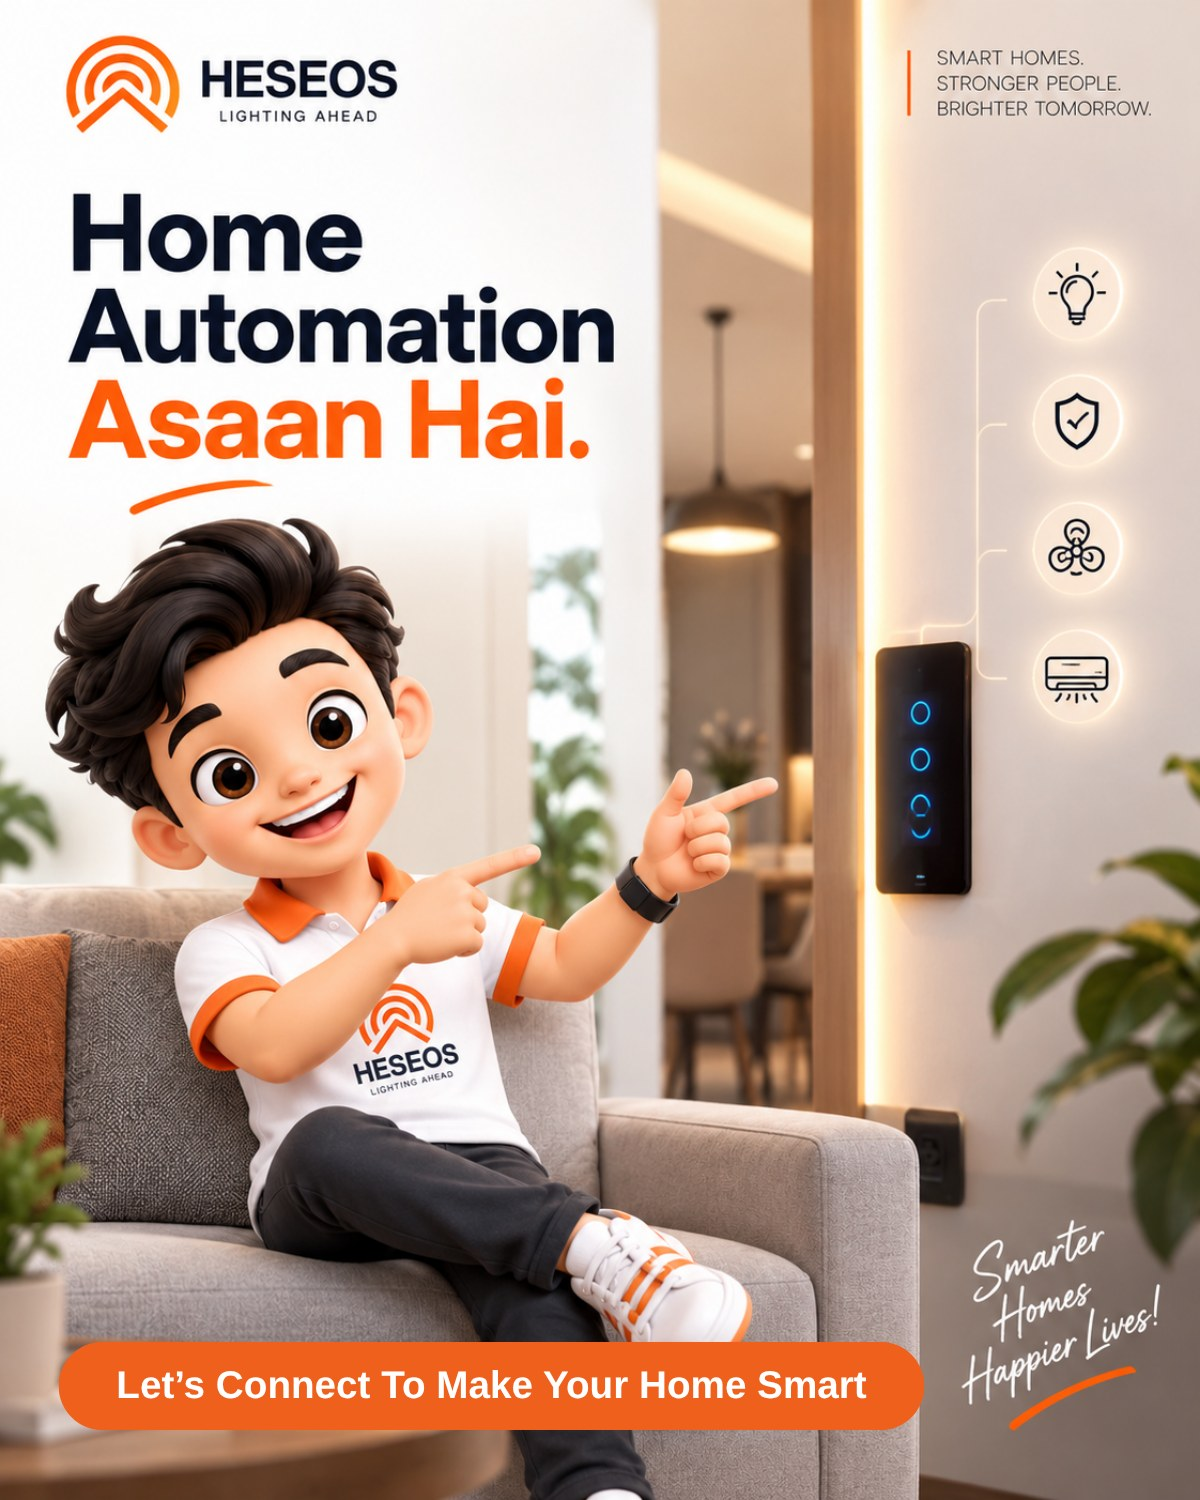
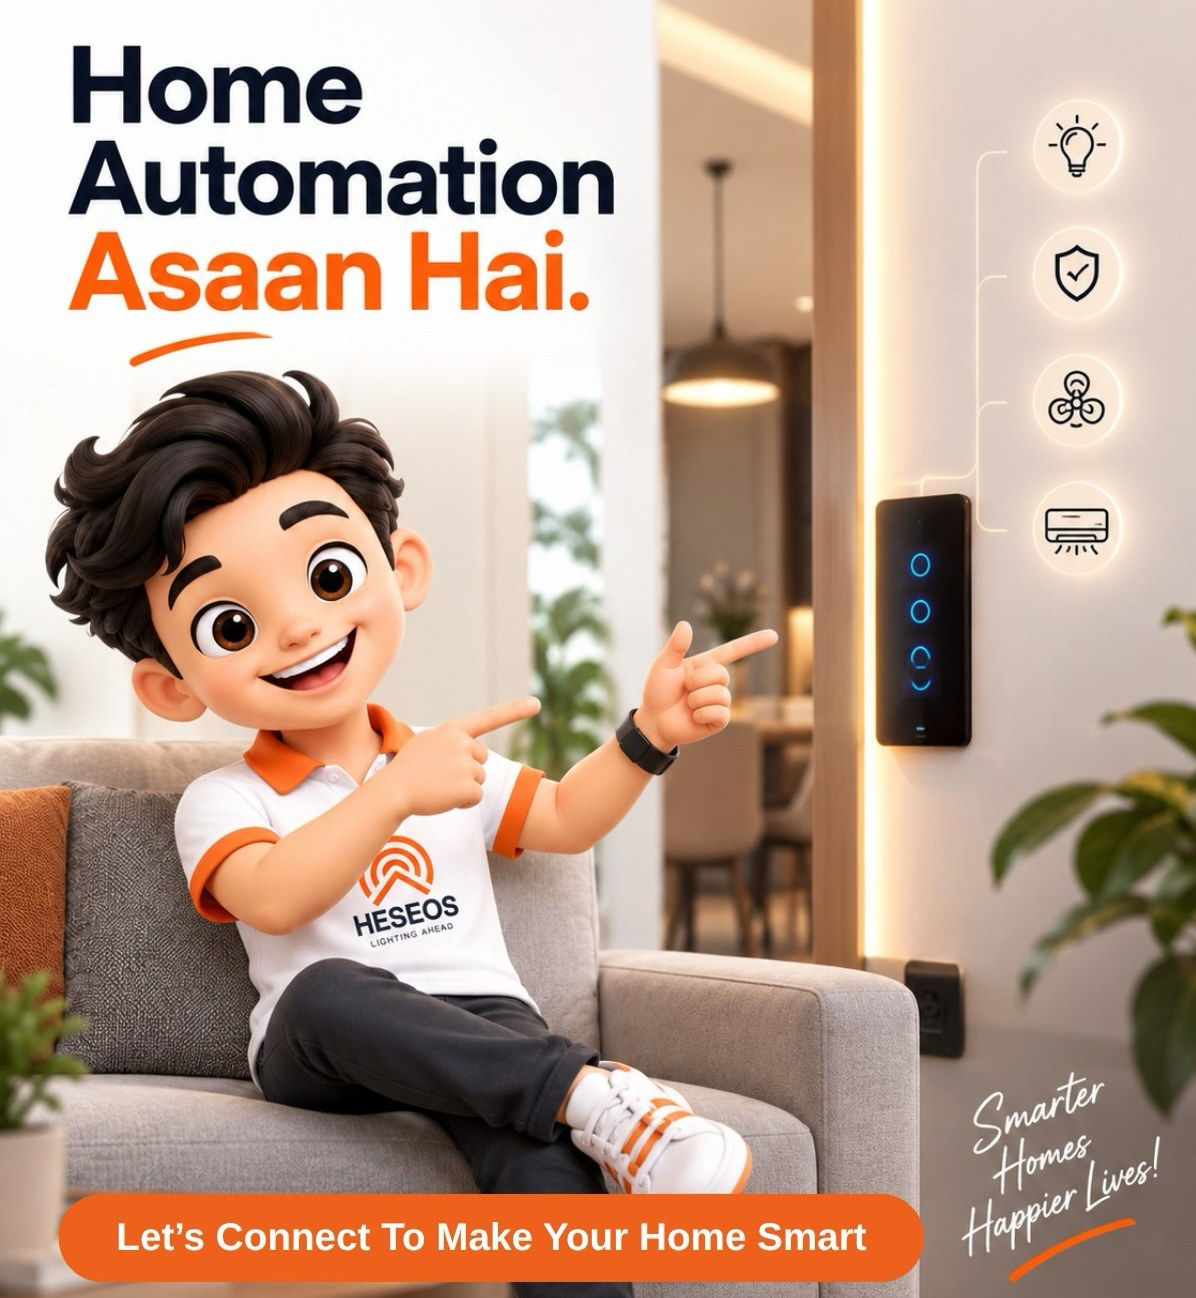
Remove welcome-image delay and swap in the updated poster
delayMs is now 0 — the poster image sends immediately after the
greeting text, with no artificial pause, then the next flow
message (the "would you like to explore..." menu) follows right
after as before. Still positioned between the first and second
messages, just without the wait.

Also swapped public/whatsapp/heseos-welcome.jpg for the updated
poster (compressed to a 228KB JPEG).

Refactored HESEOS_GREET_IMAGE into a single shared constant in
each flow file, used by both the seed function and
withHeseosGreetImage's in-place migration — so any future tweak
to the image path or delay automatically reaches the already-
seeded live flow the next time the webhook runs, without needing
another manual migration tweak like this one.

Claude-Session: https://claude.ai/code/session_01KuwwtRFPNSVzGY9YiKz9mE

diff --git a/lib/heseosDefaultFlow.js b/lib/heseosDefaultFlow.js
@@ -32,6 +32,13 @@
 import { dbInsert, dbPatch } from '@/lib/db';
 
 export const HESEOS_DEFAULT_FLOW_ID = 'heseos_default_lead_capture';
+// HESEOS's own brand poster, sent after n_greet's text (see lib/botFlowEngine.js's play() for
+// what data.imageAfter does) — the single source of truth for both the seed function below AND
+// withHeseosGreetImage's in-place migration, so a future tweak here (a new image, a different
+// delay) automatically reaches an already-seeded tenant's row the next time ensureHeseos*Flow
+// runs, without ever needing a manual DB fix again. delayMs: 0 — no pause; the image follows
+// the greeting immediately, same as any other two consecutive flow nodes.
+const HESEOS_GREET_IMAGE = { path: '/whatsapp/heseos-welcome.jpg', delayMs: 0 };
 
 const Y = { greet: 20, propertyRow: [20, 220, 420, 620] };
 
@@ -83,12 +90,12 @@ function buildHeseosDefaultFlow(tenantId) {
       id: 'n_greet', type: 'message', x: 340, y: 320,
       data: {
         text: "{{referrerNote}}\n\nNamaste 🙏 I'm *{{botName}}* — your smart home guide at HESEOS.\n\nWe help design and set up smart switches, lighting, security cameras and voice control for homes and offices — from your very first idea to the final installation. 🏠✨",
-        // HESEOS brand poster — sent as its own image message 4s after this greeting, then the
-        // very next node (n_ask_smart, below) follows immediately with no further delay. See
-        // lib/botFlowEngine.js's play() for what data.imageAfter does; this is the ONLY place
-        // (along with lib/heseosOrganicFlow.js's matching n_greet) that sets it — not a Flow
-        // Builder field, just this flow's own seeded data.
-        imageAfter: { path: '/whatsapp/heseos-welcome.jpg', delayMs: 4000 },
+        // HESEOS brand poster — sent as its own image message right after this greeting, no
+        // delay (see HESEOS_GREET_IMAGE above), then the very next node (n_ask_smart, below)
+        // follows immediately too. See lib/botFlowEngine.js's play() for what data.imageAfter
+        // does; this is the ONLY place (along with lib/heseosOrganicFlow.js's matching
+        // n_greet) that sets it — not a Flow Builder field, just this flow's own seeded data.
+        imageAfter: HESEOS_GREET_IMAGE,
       },
     },
     {
@@ -218,18 +225,19 @@ function buildHeseosDefaultFlow(tenantId) {
 // never overwrites an existing row, only fills the gap when it's missing entirely. Returns the
 // (possibly updated) flows array so the caller's already-in-hand list stays correct without a
 // second DB round trip.
-// One-off migration, applied in place: n_greet's data.imageAfter (the HESEOS brand poster —
-// see lib/botFlowEngine.js's play()) was added after this flow first shipped, so an already-
-// seeded tenant's row wouldn't otherwise ever pick it up. Patches ONLY that one field onto that
-// one node, leaving everything else — including any text/node/edge changes an admin has since
-// made in Flow Builder — completely untouched. Safely a no-op once applied once, and a no-op
-// (never throws) if n_greet was itself since deleted or renamed.
+// Keeps an already-seeded tenant's n_greet node in sync with HESEOS_GREET_IMAGE above, applied
+// in place — necessary because this flow is seeded once into Postgres and never overwritten, so
+// a code change to HESEOS_GREET_IMAGE alone wouldn't otherwise ever reach a tenant whose flow
+// already exists (ours). Patches ONLY that one field onto that one node, leaving everything
+// else — including any text/node/edge changes an admin has since made in Flow Builder —
+// completely untouched. A no-op once it matches, and a no-op (never throws) if n_greet was
+// itself since deleted or renamed.
 function withHeseosGreetImage(nodes) {
   const greet = (nodes || []).find((n) => n.id === 'n_greet');
-  if (!greet || greet.data?.imageAfter) return null;
-  return (nodes || []).map((n) => (n.id === 'n_greet'
-    ? { ...n, data: { ...n.data, imageAfter: { path: '/whatsapp/heseos-welcome.jpg', delayMs: 4000 } } }
-    : n));
+  if (!greet) return null;
+  const current = greet.data?.imageAfter;
+  if (current && current.path === HESEOS_GREET_IMAGE.path && current.delayMs === HESEOS_GREET_IMAGE.delayMs) return null;
+  return (nodes || []).map((n) => (n.id === 'n_greet' ? { ...n, data: { ...n.data, imageAfter: HESEOS_GREET_IMAGE } } : n));
 }
 
 export async function ensureHeseosDefaultFlow(tenant, existingFlows) {

diff --git a/lib/heseosOrganicFlow.js b/lib/heseosOrganicFlow.js
@@ -30,6 +30,13 @@
 import { dbInsert, dbPatch } from '@/lib/db';
 
 export const HESEOS_ORGANIC_FLOW_ID = 'heseos_organic_enquiry_v1';
+// HESEOS's own brand poster, sent after n_greet's text (see lib/botFlowEngine.js's play() for
+// what data.imageAfter does) — the single source of truth for both the seed function below AND
+// withHeseosGreetImage's in-place migration, so a future tweak here (a new image, a different
+// delay) automatically reaches an already-seeded tenant's row the next time ensureHeseos*Flow
+// runs, without ever needing a manual DB fix again. delayMs: 0 — no pause; the image follows
+// the greeting immediately, same as any other two consecutive flow nodes.
+const HESEOS_GREET_IMAGE = { path: '/whatsapp/heseos-welcome.jpg', delayMs: 0 };
 
 function buildHeseosOrganicFlow(tenantId) {
   const now = new Date().toISOString();
@@ -40,10 +47,10 @@ function buildHeseosOrganicFlow(tenantId) {
       id: 'n_greet', type: 'message', x: 340, y: 220,
       data: {
         text: "Namaste 🙏 I'm *{{botName}}* — your smart home guide at HESEOS.\n\nWhat can I help you with today? 👇",
-        // HESEOS brand poster — see lib/heseosDefaultFlow.js's matching n_greet node and
-        // lib/botFlowEngine.js's play() for what data.imageAfter does. Sent 4s after this
-        // greeting, then n_menu (below) follows immediately with no further delay.
-        imageAfter: { path: '/whatsapp/heseos-welcome.jpg', delayMs: 4000 },
+        // HESEOS brand poster — see HESEOS_GREET_IMAGE above and lib/botFlowEngine.js's
+        // play() for what data.imageAfter does. Sent right after this greeting, no delay
+        // (see HESEOS_GREET_IMAGE); n_menu (below) then follows immediately too.
+        imageAfter: HESEOS_GREET_IMAGE,
       },
     },
     {
@@ -94,17 +101,16 @@ function buildHeseosOrganicFlow(tenantId) {
 
 // Same self-healing seed pattern as lib/heseosDefaultFlow.js/lib/heseosReturningFlow.js — only
 // ever inserts when a flow with this exact id is missing, never overwrites a tenant's own edits.
-// One-off migration, applied in place — same mechanic and reasoning as
-// lib/heseosDefaultFlow.js's withHeseosGreetImage (not shared code since these are two
-// independent flows with their own node ids/shape, but the exact same idea): n_greet's
-// data.imageAfter (the HESEOS brand poster) was added after this flow first shipped, so an
-// already-seeded tenant's row needs a targeted, in-place patch rather than a full reseed.
+// Keeps an already-seeded tenant's n_greet node in sync with HESEOS_GREET_IMAGE above, applied
+// in place — same mechanic and reasoning as lib/heseosDefaultFlow.js's withHeseosGreetImage
+// (not shared code since these are two independent flows with their own node ids/shape, but
+// the exact same idea).
 function withHeseosGreetImage(nodes) {
   const greet = (nodes || []).find((n) => n.id === 'n_greet');
-  if (!greet || greet.data?.imageAfter) return null;
-  return (nodes || []).map((n) => (n.id === 'n_greet'
-    ? { ...n, data: { ...n.data, imageAfter: { path: '/whatsapp/heseos-welcome.jpg', delayMs: 4000 } } }
-    : n));
+  if (!greet) return null;
+  const current = greet.data?.imageAfter;
+  if (current && current.path === HESEOS_GREET_IMAGE.path && current.delayMs === HESEOS_GREET_IMAGE.delayMs) return null;
+  return (nodes || []).map((n) => (n.id === 'n_greet' ? { ...n, data: { ...n.data, imageAfter: HESEOS_GREET_IMAGE } } : n));
 }
 
 export async function ensureHeseosOrganicFlow(tenant, existingFlows) {
